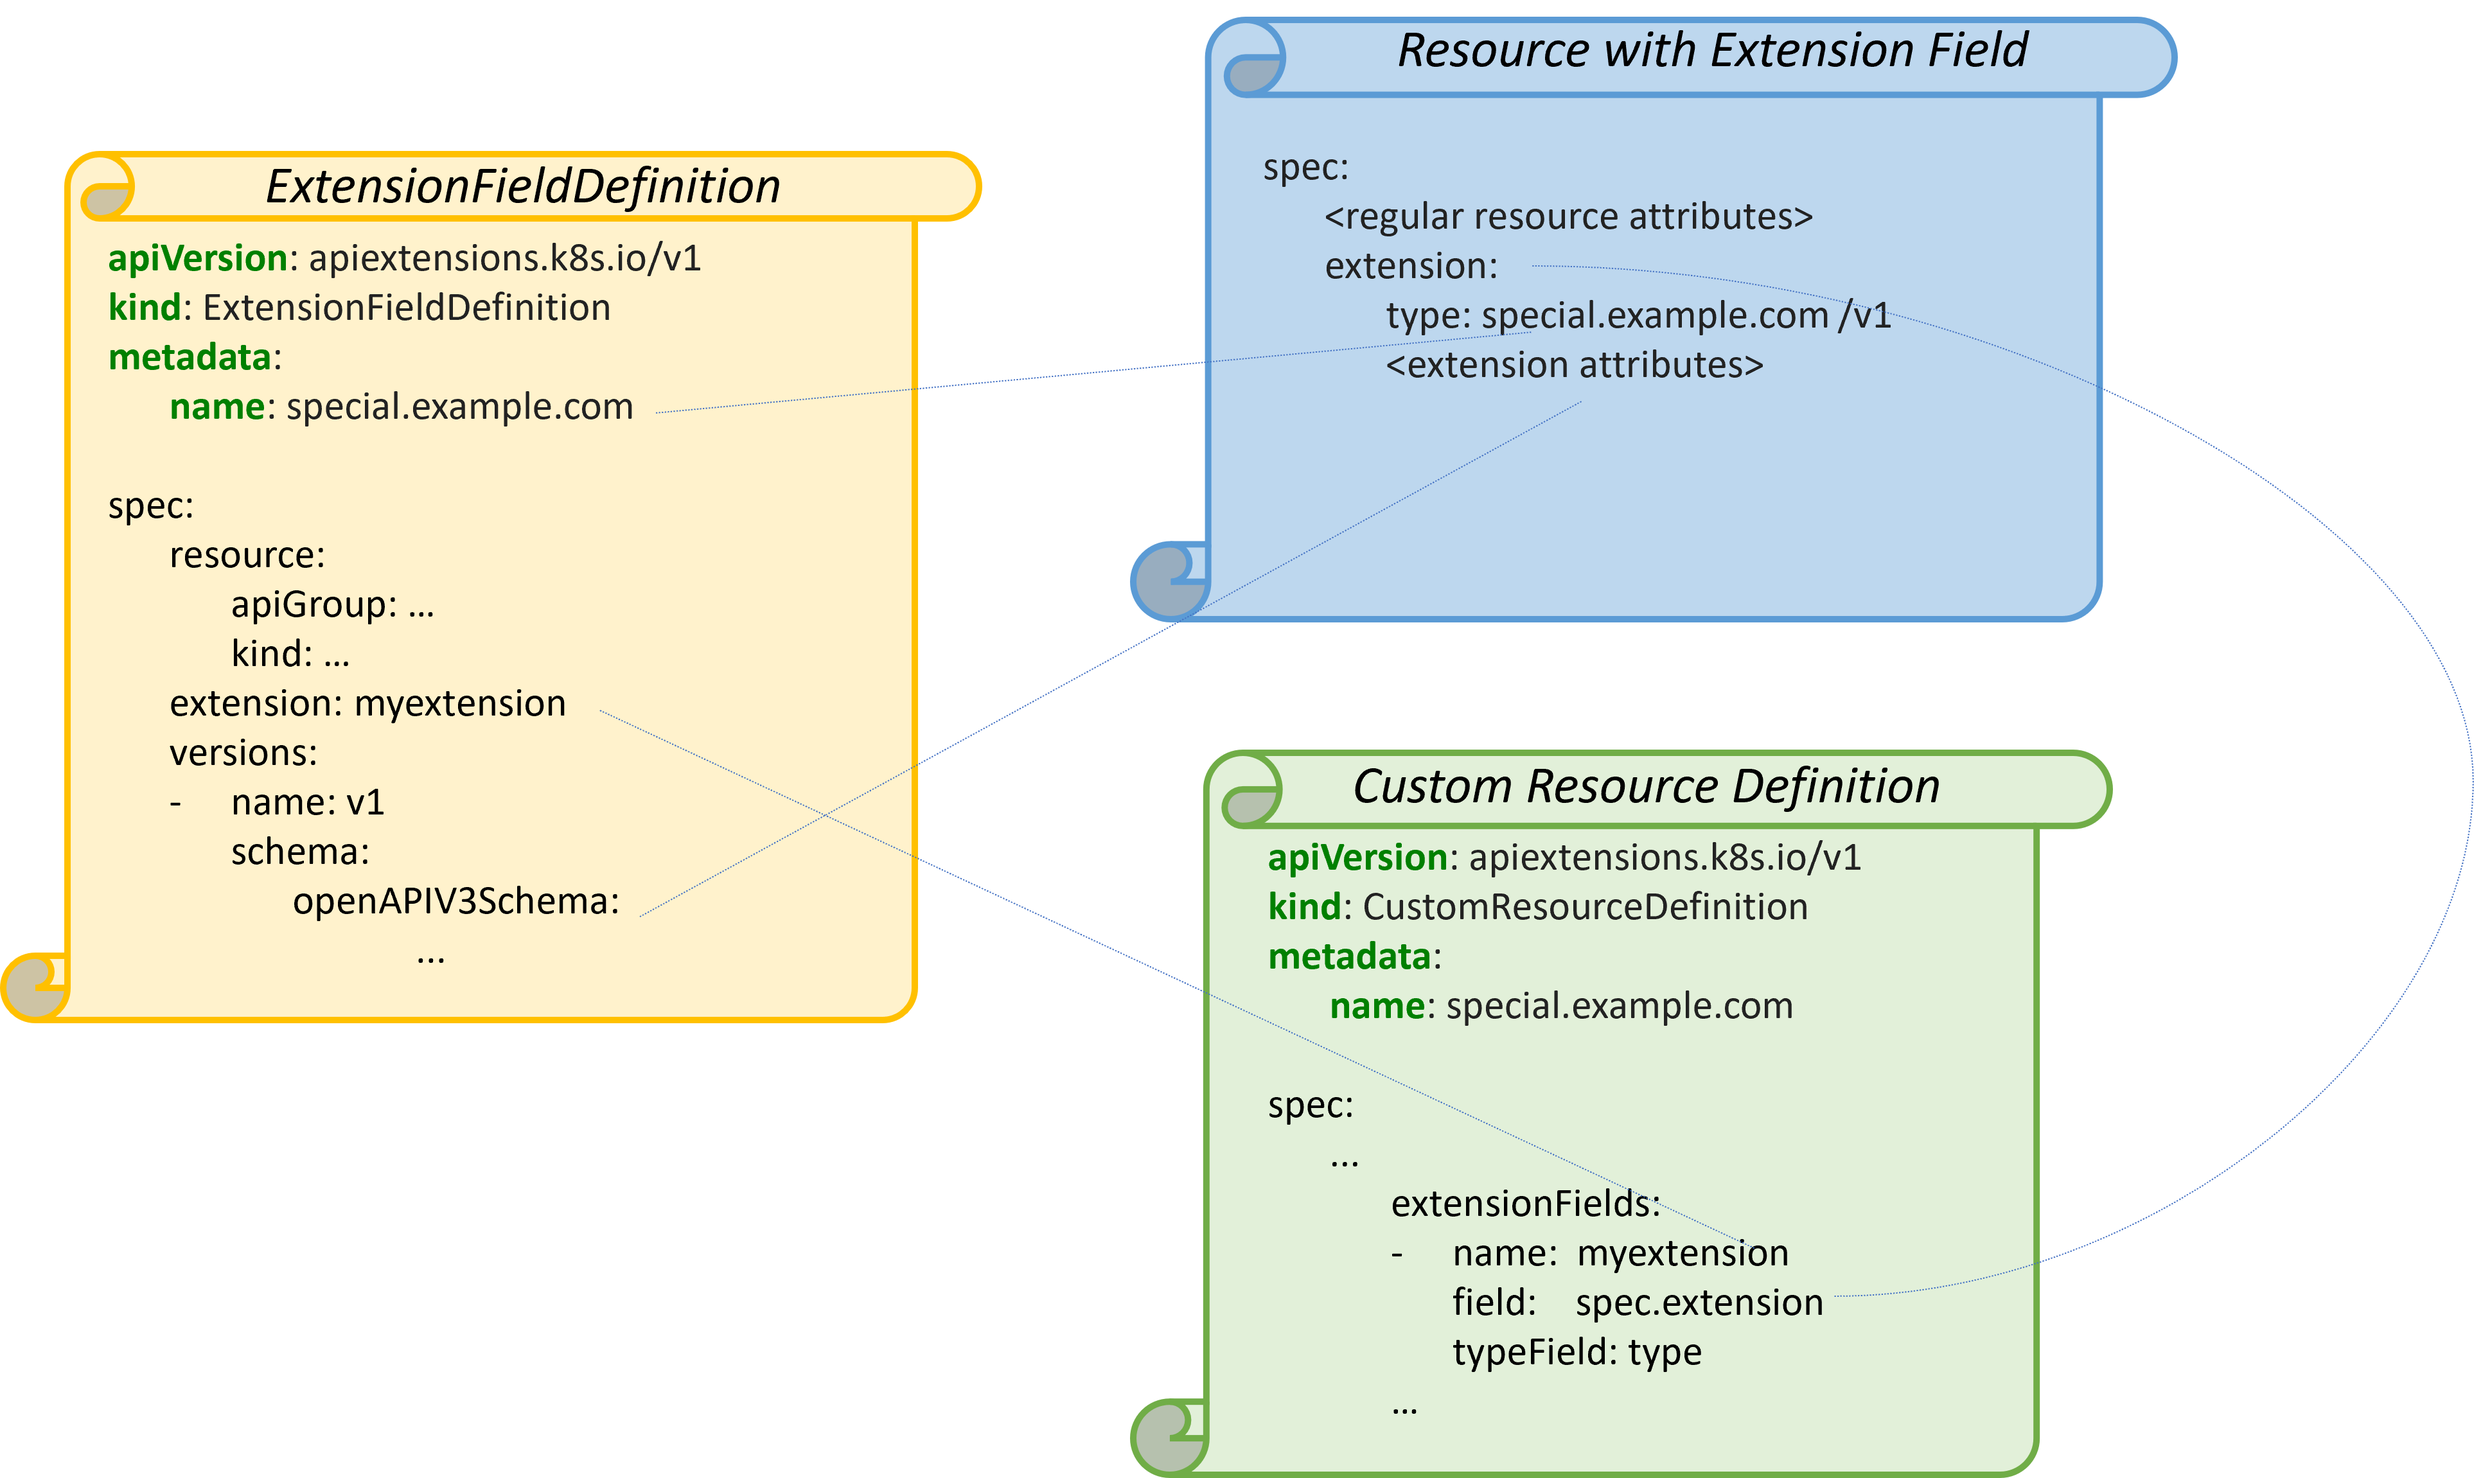
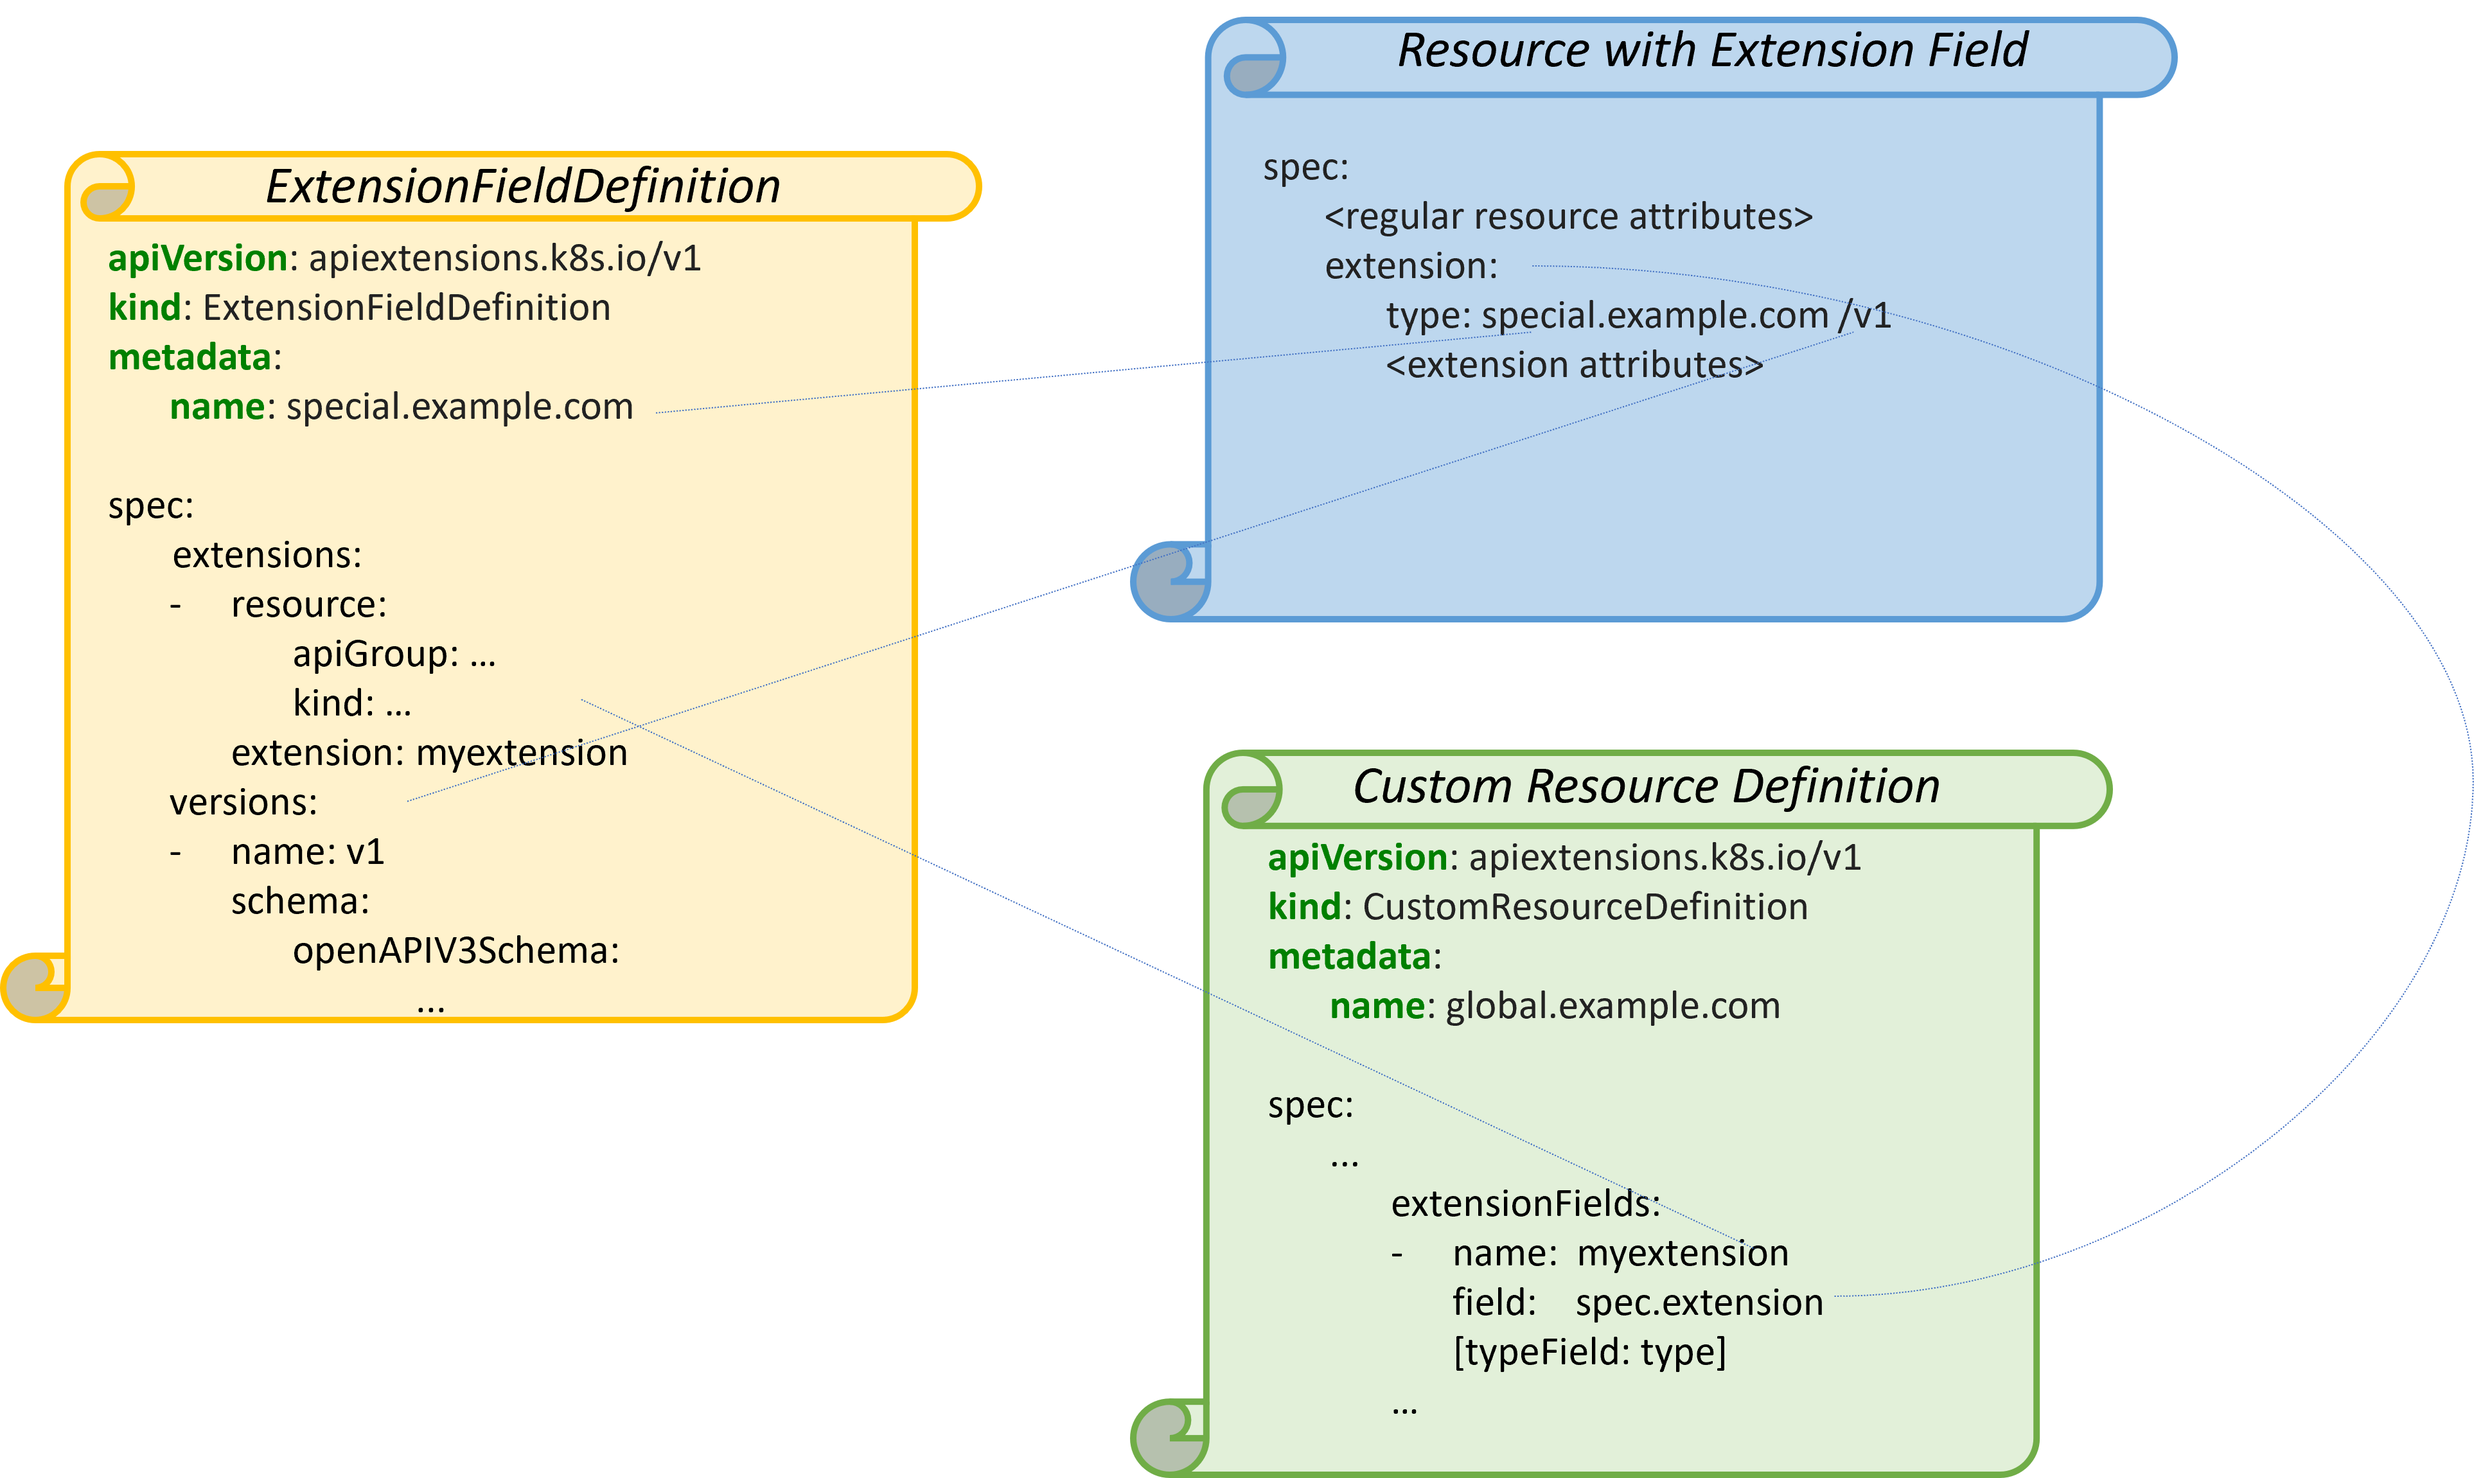
rework self descriptive

Changed region(s): [[0.0623, 0.3703, 0.2493, 0.648], [0.5921, 0.648, 0.7167, 0.7097], [0.5921, 0.8948, 0.6855, 0.9257]]

diff --git a/resourcelayout/README.md b/resourcelayout/README.md
@@ -334,26 +334,28 @@ Unfortunately, this is not possible for typed sub structures. Although it is a c
 
 For the implementation sharding additionally a mechanism is required to assign resources to dedicated implementations (controllers). This is either handled by an explicit field, for example by the type of extension field (if available) or by annotations as explained earlier. Those annotations are also used to configure some parameterization, if no extension field is foreseen (for example in Ingress resources in Kubernetes).
 
-This kind of information is not part of the self-describing features of the Kubernetes data plane. It would be extremely helpful, if the implementations for a polymorphic resource could be declared like new resource types. Similar to CRDs this could be done by an *ImplementationClass* resource combined with a formalized extension field in the resource in question.
+This kind of information is not part of the self-describing features of the Kubernetes data plane. It would be extremely helpful, if the implementations for a polymorphic resource could be declared like new resource types (for example for ingress controller variants). Similar to CRDs this could be done by an *ImplementationClass* resource combined with a formalized extension field in the resource in question.
 
 
   <p align="center">
   <img src="./media/ICD.png" style="width:60%" />
   </p>
 
+It would be possible to establish a standard to describe such a kind of implementation class, for example by defining a standard field `class``, which describes the intended implementation class. This field includes the specifcation of an implementation type. Basically the usual API group synta can be used. In the example this is `special.example.com/v1`, where `v1` describes the used format version.
 
-Similar to the CRD this declaration defines the name and the structure of this extension field and the values used to select a dedicated implementation (for example a simple type field with the identifying value).
+Similar to an CRD an `ImplemantationClassDefinition` resource type is introduced. It describes for every extension class, given by its name (`special.example.com`). In its specification it contains information for which resource type it is intended for, and it described the supported format version using the usual OpenAPI specifications already known from the CRDs.
 
-It could also define additional extension fields in the main resource together with structural alternatives.
 
 
   <p align="center">
   <img src="./media/EFD.png" style="width:60%" />
   </p>
 
-A similar mechanism could also be used to describe valid structures for extension fields for variable configuration fields (the second case from above). The field paths for the extension fields must be defined in the CRD. The CRD defines the set of extensions supported by a resource by defining an extension name and assigning it to a field of the described resource. Separate *ExtensionFieldDefinition* resources can dynamically be added like CRDs, and declare which extension of a resource type is described as well as the structure of th extension. In the resource the type field of the extension field specifies the extension type to use according the name of the extension field definition.
+A similar mechanism could also be used to describe valid structures for extension fields for variable configuration fields (the second case from above). The CRD defines the set of extensions supported by a resource by defining an extension name and assigning it to a field of the described resource. Like the `class` field from above must at least contain a type field (potentially configurable), it is used to identify the type of the configured extension, described by a separate *ExtensionFieldDefinition* resource. Those resources can dynamically be added like CRDs, and declare for which resource and extension type it is intended, as well as the structure versions for the extension attributes. In the resource the type field of the extension field specifies the extension type to use according the name of the extension field definition.
 
 This way the data plane would be completely self-descriptive and queryable. Especially it would be possible to determine which implementations are possible for a resource following the sharded implementation pattern. And variadic field content could be validated when applying manifests.
+
+Both kinds of extensions could be brought together and described by the same mechanism, if a standard extension type, for example `class`, is used to define an implementation class extension, which is then used to describe the extension attributes, as well as the selecting key for the implementation sharding.
 
 
 
